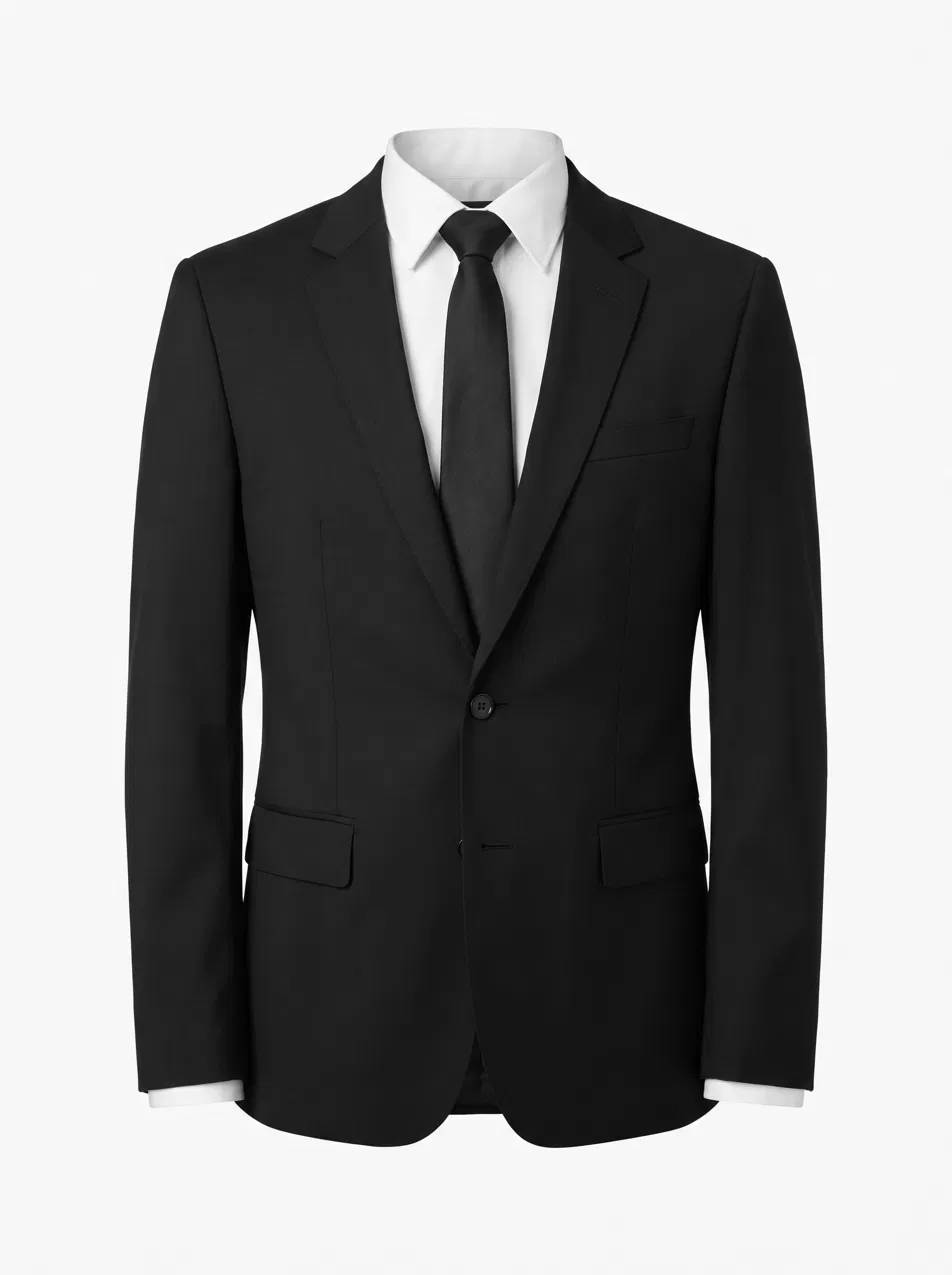
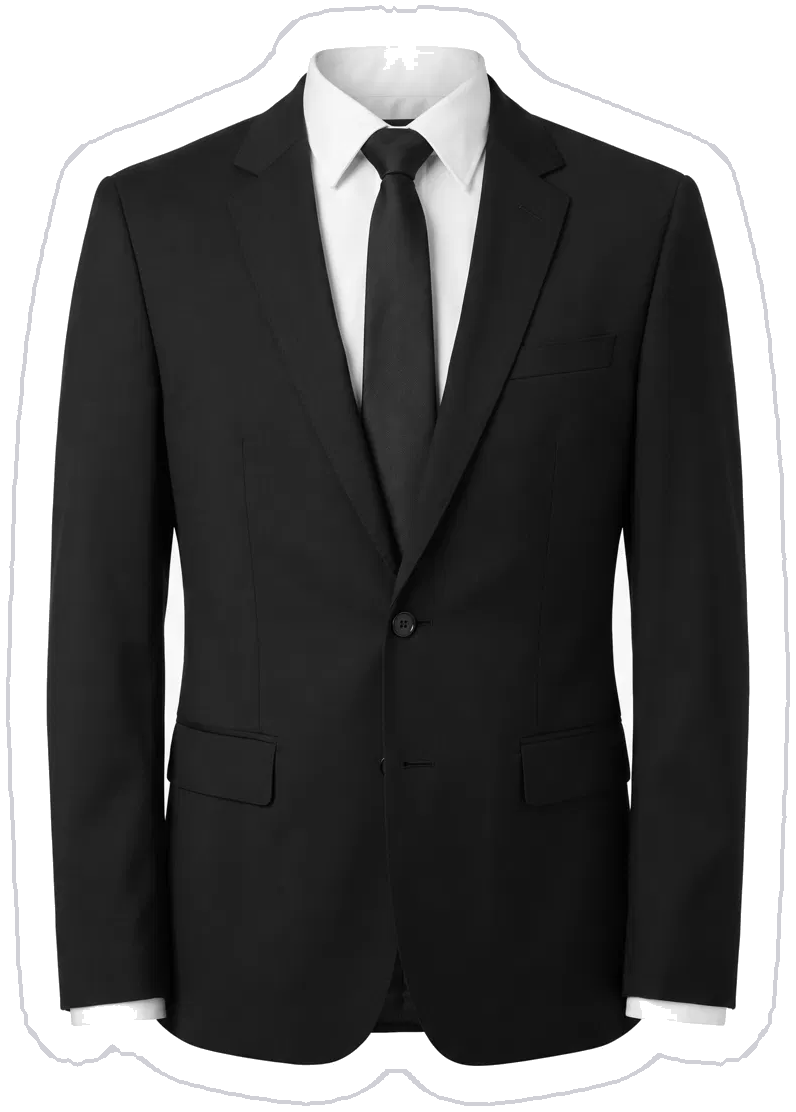
Update brandmyitem landing page assets and tests
Replit-Commit-Author: Agent

diff --git a/artifacts/brandmyitem/index.html b/artifacts/brandmyitem/index.html
@@ -7468,7 +7468,8 @@ function showBuild(){
     var b=document.createElement('button');
     b.type='button';
     b.className='itemcard'+(k===B.type?' on':'');
-     var photo=(typeof HERO_SOURCE_FILES!=='undefined'&&HERO_SOURCE_FILES[k])?HERO_SOURCE_FILES[k]:((typeof HERO_CUTOUTS!=='undefined'&&HERO_CUTOUTS[k])?HERO_CUTOUTS[k]:((typeof ITEM_PHOTOS!=='undefined'&&ITEM_PHOTOS[k])?ITEM_PHOTOS[k]:''));
+     var productPhoto=(typeof ITEM_PHOTOS!=='undefined'&&ITEM_PHOTOS[k])?ITEM_PHOTOS[k]:'';
+     var photo=((k==='suit'||k==='backpack')&&productPhoto)?productPhoto:((typeof HERO_SOURCE_FILES!=='undefined'&&HERO_SOURCE_FILES[k])?HERO_SOURCE_FILES[k]:((typeof HERO_CUTOUTS!=='undefined'&&HERO_CUTOUTS[k])?HERO_CUTOUTS[k]:productPhoto));
     b.innerHTML=(photo?'<img src="'+photo+'" alt="">':'')+
       '<div class="itemcard-b">'+(it.brand?'<span class="itemcard-brand">'+it.brand+'</span>':'')+
       '<span class="itemcard-name">'+it.label+'</span>'+
@@ -8871,9 +8872,9 @@ var HERO_SOURCE_FILES={
   golfbag:'hero/apple-golfbag.png',
   bottle:'hero/apple-bottle.png',
   case:'hero/apple-case.png',
-  suit:'hero/apple-suit.png?v=tomford-oconnor',
+  suit:'hero/apple-suit.png?v=tomford-oconnor-outline',
   cooler:'hero/apple-cooler.png',
-  backpack:'hero/apple-backpack.png?v=tumi-search-147053',
+  backpack:'hero/apple-backpack.png?v=tumi-search-147053-outline',
   paddle:'hero/apple-paddle.png',
   weekender:'hero/apple-weekender.png'
 };
